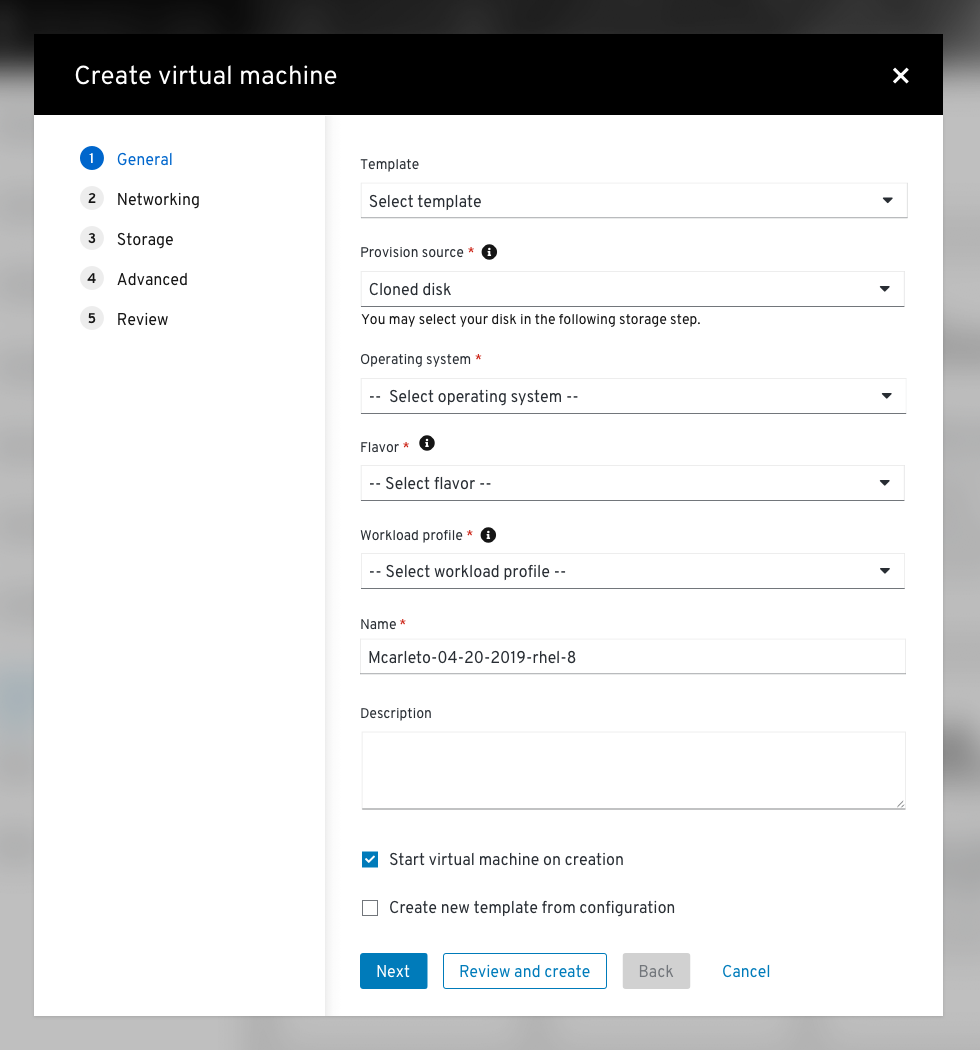
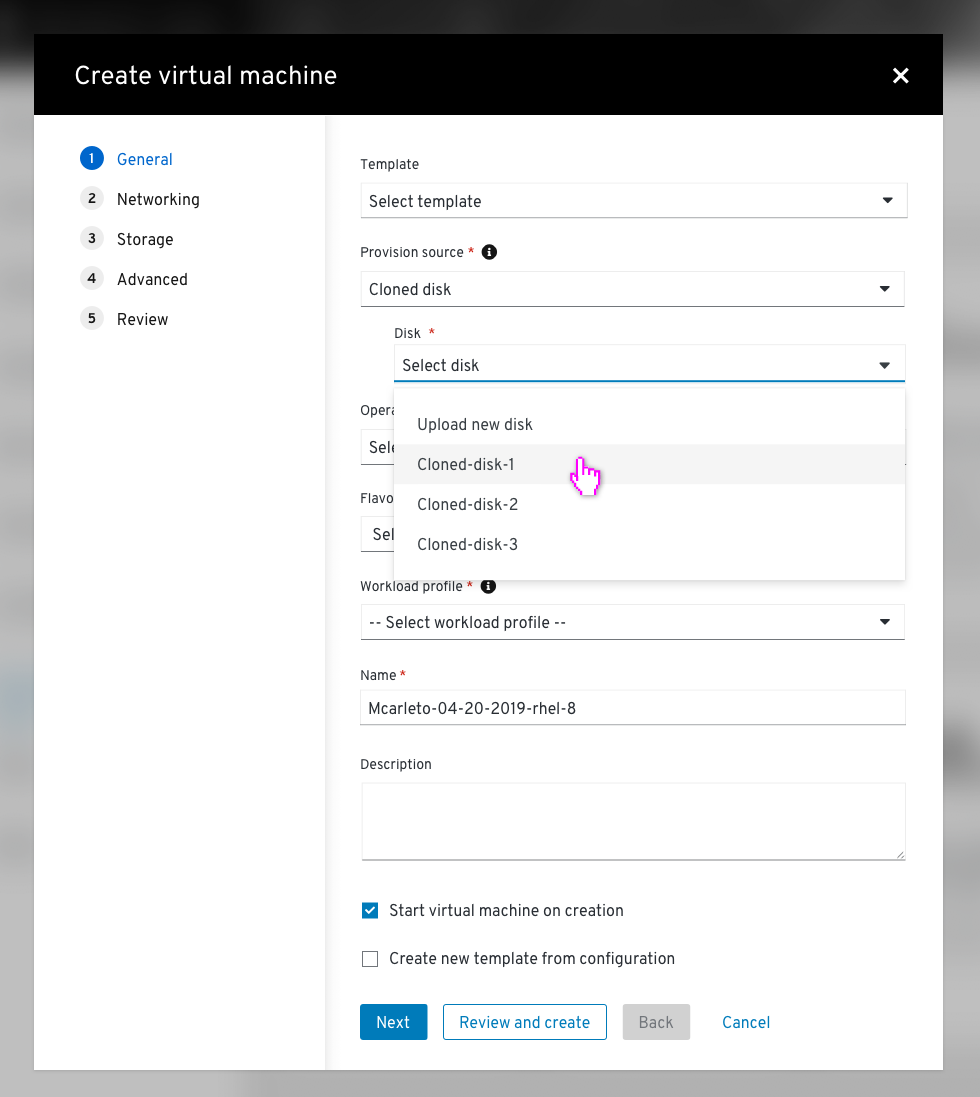
add cloned disk flow

diff --git a/web-console/knikubevirt/Create-vm/create-vm.md b/web-console/knikubevirt/Create-vm/create-vm.md
@@ -146,11 +146,21 @@ The user must provide a container image and then manually specify the OS, Flavor
 ![Container](img/Step-1-basic-container.png)
 
 ### Cloned Disk
-Provision source tooltip content: Select an existing disk in the storage step.
+Provision source tooltip content: Select an existing disk or upload a new one.
 
-When selecting Cloned disk the user will be prompted to select their existing disk in the storage step. They must manually specify the OS, Flavor, and Workload Profile. None of those fields can be automatically pre-filled.
+When selecting Cloned disk the user will be prompted to either select an available disk or upload a new one. They must manually specify the OS, Flavor, and Workload Profile. None of those fields can be automatically pre-filled.
 
 ![cloned-disk](img/Step-1-basic-cloned-disk.png)
+
+![cloned-disk-selected](img/Step-1-basic-cloned-disk-selected.png)
+
+When selecting `Upload new disk` they will be able to browse their local file system to add a new disk.
+
+![cloned-disk-upload](img/Step-1-basic-cloned-disk-upload.png)
+
+Once the disk is selected they will be notified that the disk is will begin upload when the virtual machine is created.
+
+![cloned-disk-upload-message](img/Step-1-basic-cloned-disk-upload-message.png)
 
 ## Operating System Field
 
